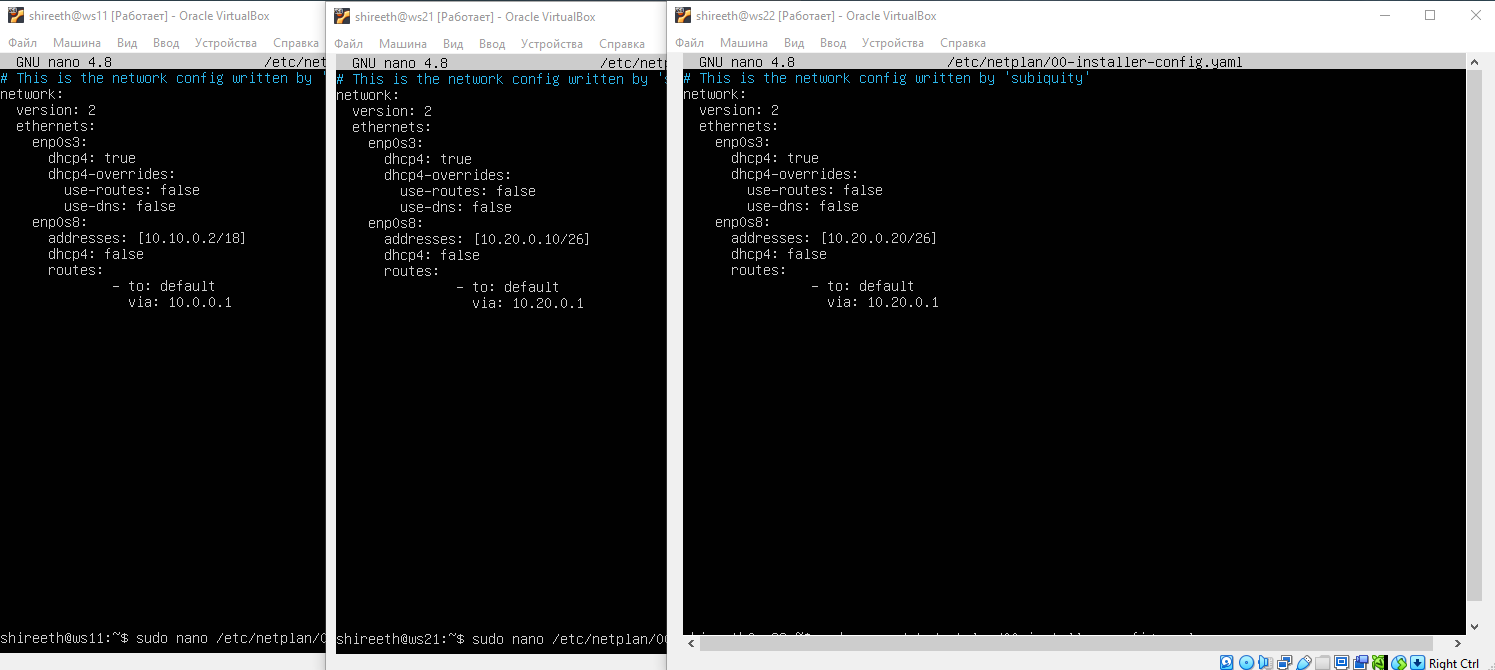
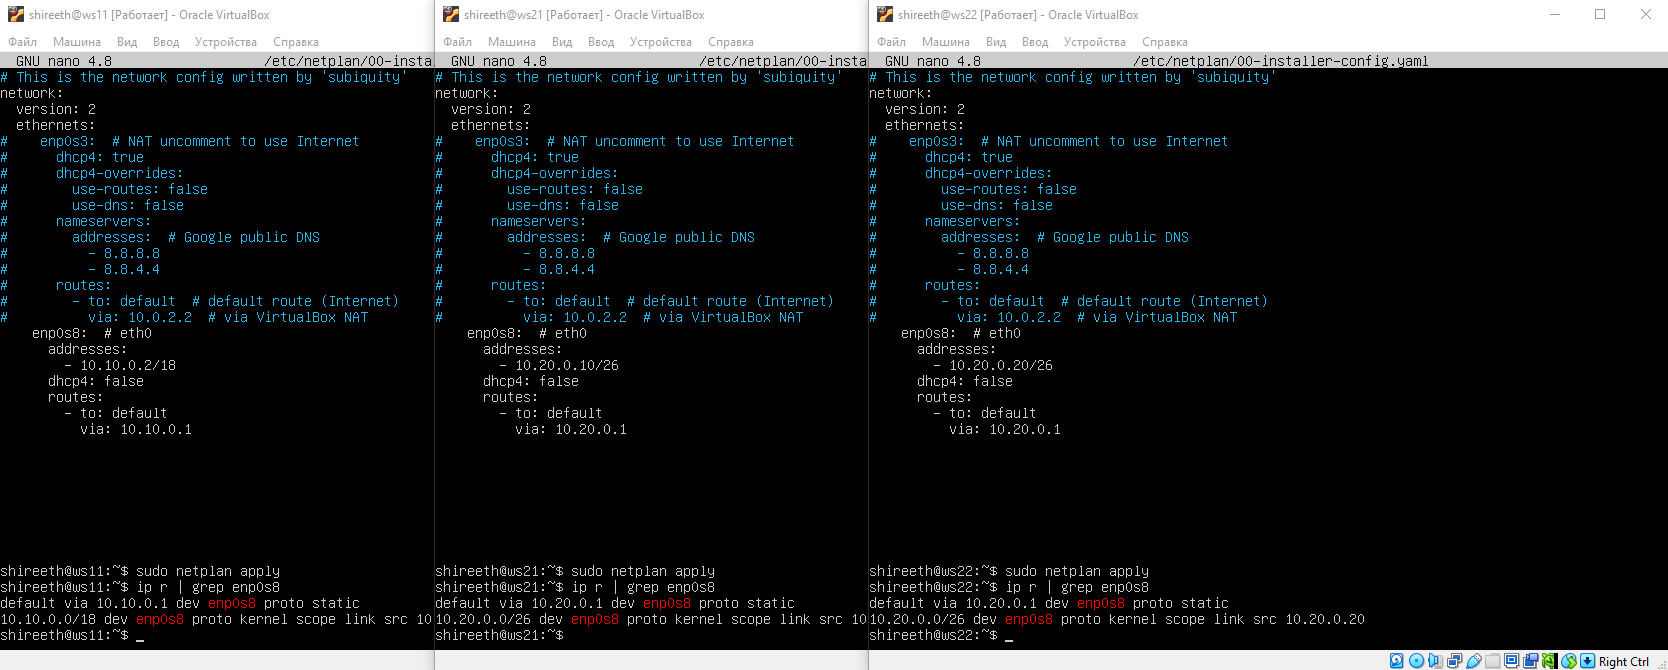
DO2_LinuxNetwork draft4

diff --git a/DevOps/DO2_LinuxNetwork/src/README.md b/DevOps/DO2_LinuxNetwork/src/README.md
@@ -119,24 +119,24 @@ Therefore, the script always clears the rules first (iptables -F; iptables -X) t
 *Check: nmap output should say: `Host is up`*.
 ![linux_network](data/14.png)<br><br>
 
+#### 5.1. Configuration of machine addresses
 
 #### Start five virtual machines (3 workstations (ws11, ws21, ws22) and 2 routers (r1, r2))
 Net: \
 ![part5_network](../misc/images/part5_network.png)
-#### 5.1. Configuration of machine addresses
-#### Set up the machine configurations in *etc/netplan/00-installer-config.yaml* according to the network in the picture.
-- Adapter 2 in VirtualBox for ws11, ws21, ws22 - inet_ws (chose name by yourself)
-- Adapter 2 in VirtualBox for r1, r2 - inet_ws 
-- Adapter 3 in VirtualBox for r1, r2 - inet_router (chose name by yourself)
 
-- ws11 + r1<br><br>
-![linux_network](data/15.png)<br><br>
-- ws21 + ws22 + r2 <br><br>
-![linux_network](data/16.png)<br><br>
+#### Set up the machine configurations in *etc/netplan/00-installer-config.yaml* according to the network in the picture.
+- Adapter 1 in VirtualBox for ws11, ws21, ws22, r1, r2 - NAT / default route (Internet)
+- Adapter 2 in VirtualBox for ws11, ws21, ws22, r1 - inet_ws (chose name by yourself)
+- Adapter 2 in VirtualBox for r2 - inet_router (chose name by yourself)
+- Adapter 3 in VirtualBox for r1, r2 - inet_router, inet_ws
 
 #### Restart the network service. If there are no errors, check that the machine address is correct with the `ip -4 a`command. Also ping ws22 from ws21. Similarly ping r1 from ws11.
-![linux_network](data/17.png)<br><br>
 
+- ws11 + r1<br><br>
+![linux_network](data/15_1.png)<br><br>
+- ws21 + ws22 + r2 <br><br>
+![linux_network](data/15_2.png)<br><br>
 - ping r1 <- ws11 (OK); r2 <- ws11 (failed)<br><br>
 ![linux_network](data/16_1.png)<br><br>
 - ping ws22 <- ws21 (OK); r2 <- ws21 (OK); r1 <- ws21 (failed)<br><br>
@@ -163,17 +163,18 @@ default via 10.10.0.1 dev eth0
 10.10.0.0/18 dev eth0 proto kernel scope link src 10.10.0.2
 ```
 #### Configure the default route (gateway) for the workstations. To do this, add `default` before the router's IP in the configuration file
+#### Call `ip r` and show that a route is added to the routing table
 ![linux_network](data/23.png)<br><br>
 
-#### Call `ip r` and show that a route is added to the routing table
-![linux_network](data/24.png)<br><br>
 #### Ping r2 router from ws11 and show on r2 that the ping is reaching. To do this, use the `tcpdump -tn -i eth0`
 command.
 - r2 -> ws 11<br><br>
 ![linux_network](data/25.png)<br><br>
 
-At this stage, ICMP packets are not passing through because the routers do not have static routes between the 10.10.0.0/18 and 10.20.0.0/?? networks.<br>
-Tcpdump on r2 only shows ARP requests, which confirms the absence of IP routing.
+When pinging from ws11 (10.10.0.2) to r2 (10.100.0.12), ICMP echo request packets successfully reach r2, as evidenced by the tcpdump output.<br>
+ An ARP request from r1 to r2 and an ARP reply from r2 are also visible.<br>
+ However, there are no echo replies because r2 does not have a reverse static route configured to the 10.10.0.0/18 network.<br>
+ This confirms the need to add static routes in the next step.
 
 #### 5.4. Adding static routes
 #### Add static routes to r1 and r2 in configuration file. Here is an example for r1 route to 10.20.0.0/26:
@@ -204,25 +205,28 @@ Here is an example of the **traceroute** utility output after adding a gateway:
 2 10.100.0.12 1 ms 0 ms 1 ms
 3 10.20.0.10 12 ms 1 ms 3 ms
 ```
-- fix internet (enp0s3) to download traceroute<br><br>
-![linux_network](data/fix_internet_2.png)<br><br>
 #### Run the `tcpdump -tnv -i eth0` dump command on r1
 #### Use **traceroute** utility to list routers in the path from ws11 to ws21
+- r1: tcpdump -tnv -i enp0s8<br><br>
 ![linux_network](data/29.png)<br><br>
-- Traceroute determines the path of a packet from the sender to the receiver.<br>
+- (ws11: traceroute 10.20.0.10<br>r1: sudo tcpdump -tnv -i enp0s8 -w file.pcap)<br><br>
+Traceroute determines the path of a packet from the sender to the receiver.<br>
 It sends packets with sequentially increasing TTL (1, 2, 3, etc.). <br>
 Each router decrements the TTL by 1; if TTL=0, it discards the packet and returns a "Time Exceeded" message.<br>
 Traceroute records the IP address of this router. The process is repeated until the packet reaches the final node.<br>
 The result is a list of all intermediate routers and the latency to each.<br><br>
 ![linux_network](data/30.png)<br><br>
+- (ws11: traceroute -I -n 10.20.0.10<br>r1: sudo tcpdump -tnv -i any -w full_trace.pcap)<br><br>
+![linux_network](data/30_1.png)<br><br>
+1. 10.100.0.12 time exceeded ← router
+2. 10.10.0.1 time exceeded ← router
+3. 10.20.0.10 echo reply ← end node
+
 
 #### 5.6. Using **ICMP** protocol in routing
-#### Run on r1 network traffic capture going through eth0 with the
-`tcpdump -n -i eth0 icmp` command.
+#### Run on r1 network traffic capture going through eth0 with the `tcpdump -n -i eth0 icmp` command.
 
-#### Ping a non-existent IP (e.g. *10.30.0.111*) from ws11 with the
-`ping -c 1 10.30.0.111` command.
-- Change netplan config to enable ping in local net<br><br>
+#### Ping a non-existent IP (e.g. *10.30.0.111*) from ws11 with the `ping -c 1 10.30.0.111` command.
 ![linux_network](data/31.png)<br><br>
 
 ## Part 6. Dynamic IP configuration using **DHCP**
